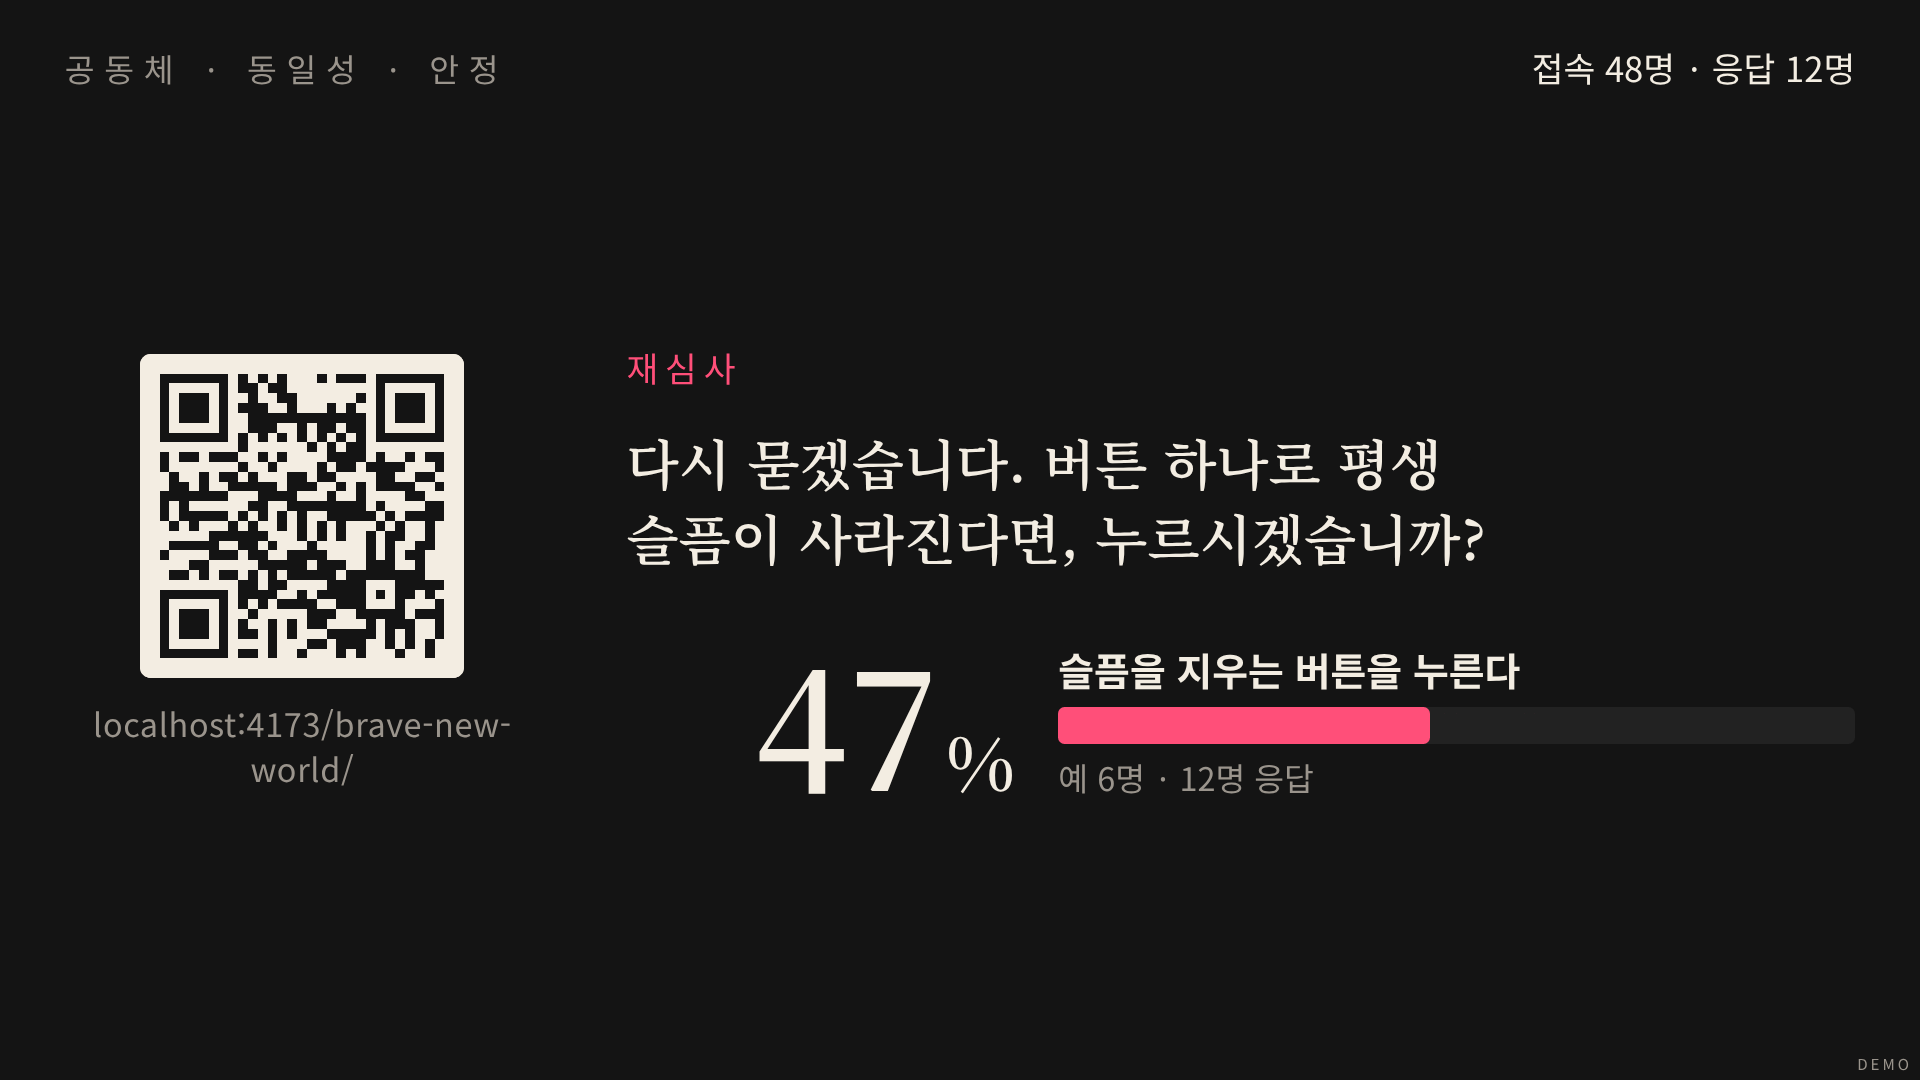
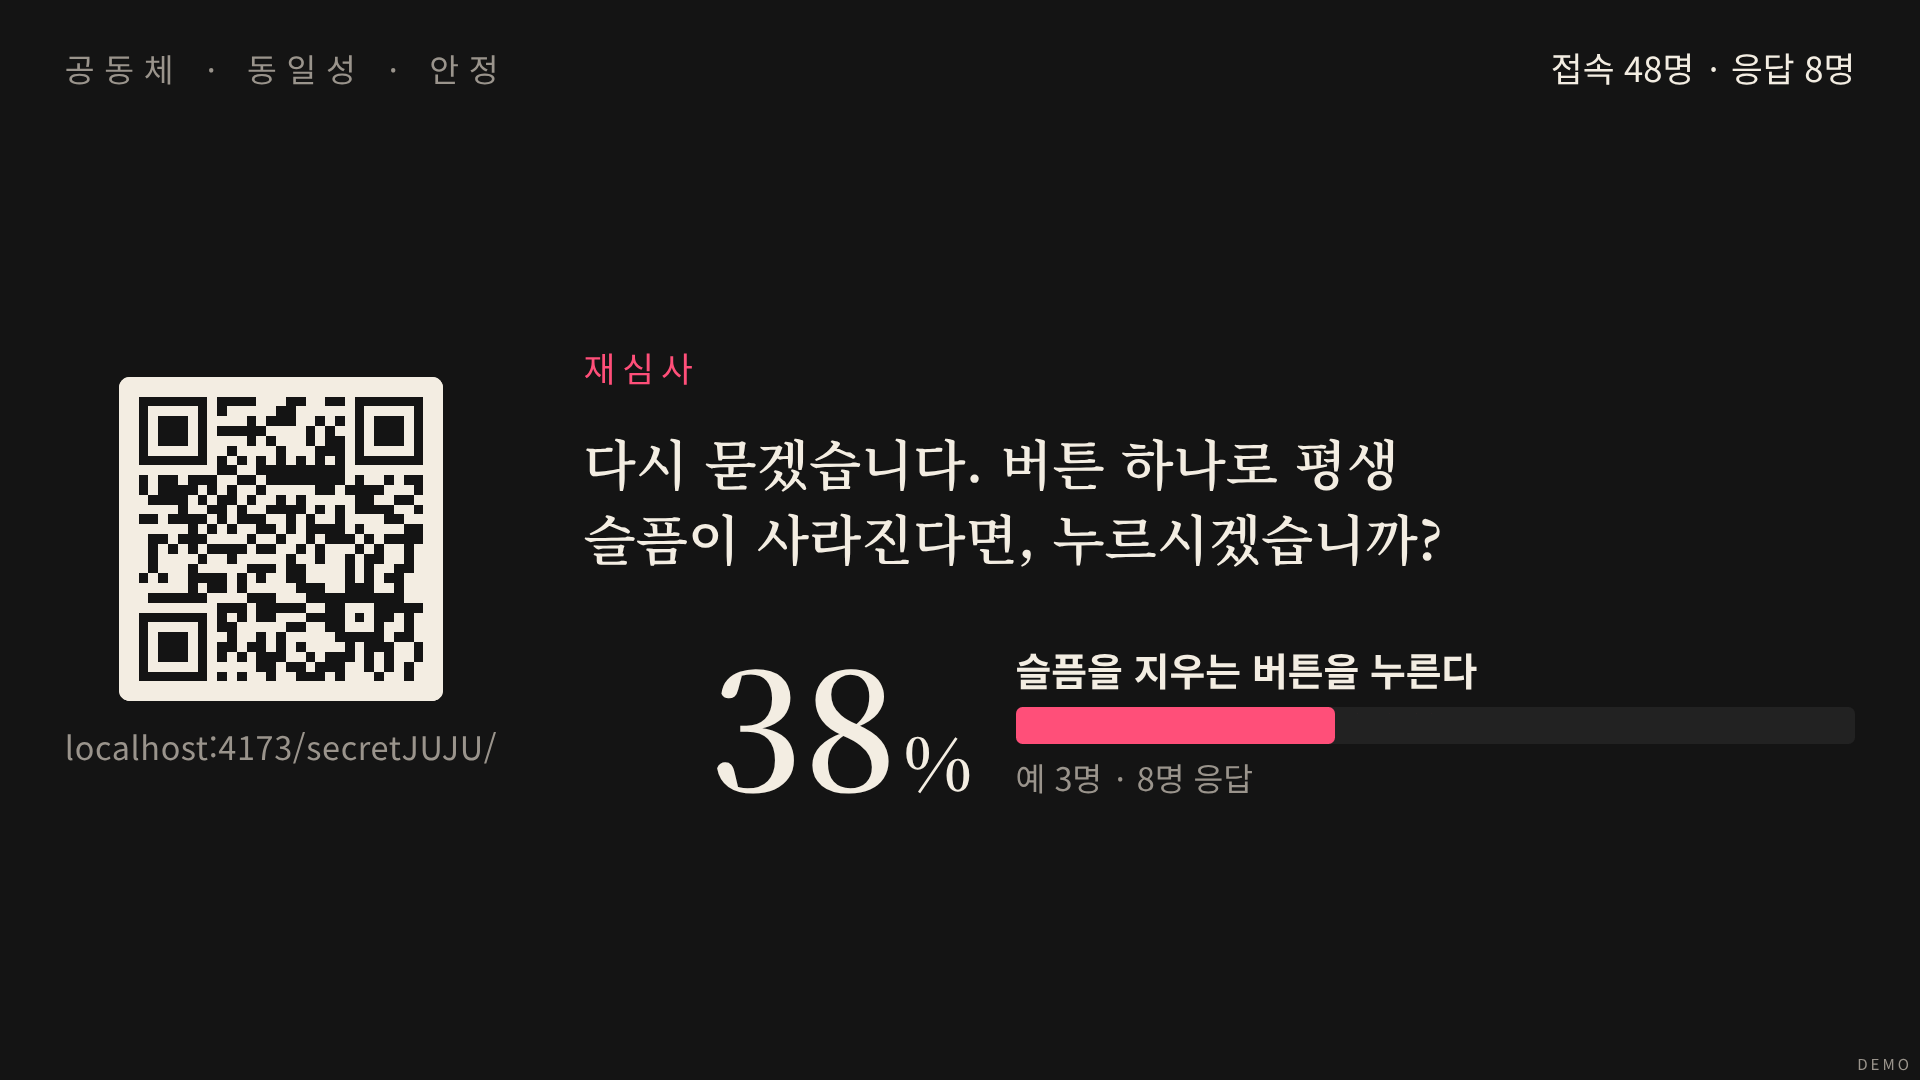
Use /secretJUJU/ as the default base path
Claude-Session: https://claude.ai/code/session_01CLDoCnqqRW8HJJm8WrfZjq

diff --git a/src/logic/logic.test.ts b/src/logic/logic.test.ts
@@ -176,8 +176,8 @@ describe('주소 처리', () => {
   });
 
   it('QR 주소는 쿼리를 뺀 청중 경로이고 ?qr= 로 덮어쓸 수 있다', () => {
-    const base = { origin: 'https://woobin0724.github.io', pathname: '/brave-new-world/' };
-    expect(audienceUrl({ ...base, search: '', hash: '#/screen?demo=1' })).toBe('https://woobin0724.github.io/brave-new-world/#/');
+    const base = { origin: 'https://woobin0724.github.io', pathname: '/secretJUJU/' };
+    expect(audienceUrl({ ...base, search: '', hash: '#/screen?demo=1' })).toBe('https://woobin0724.github.io/secretJUJU/#/');
     expect(audienceUrl({ ...base, search: '', hash: '#/screen?qr=https%3A%2F%2Fex.kr%2Fa' })).toBe('https://ex.kr/a');
   });
 });

diff --git a/playwright.config.ts b/playwright.config.ts
@@ -8,14 +8,14 @@ export default defineConfig({
   fullyParallel: true,
   reporter: [['list']],
   use: {
-    baseURL: `http://localhost:${PORT}/brave-new-world/`,
+    baseURL: `http://localhost:${PORT}/secretJUJU/`,
     trace: 'off',
     launchOptions: process.env.PW_CHROMIUM_PATH ? { executablePath: process.env.PW_CHROMIUM_PATH } : {},
   },
   webServer: {
     // Firebase 설정 없이 빌드한 결과물로 데모 모드를 검증한다.
     command: `npm run build && npx vite preview --port ${PORT} --strictPort`,
-    url: `http://localhost:${PORT}/brave-new-world/`,
+    url: `http://localhost:${PORT}/secretJUJU/`,
     reuseExistingServer: true,
     timeout: 120_000,
   },

diff --git a/e2e/screen.spec.ts b/e2e/screen.spec.ts
@@ -35,7 +35,7 @@ test('발표 화면: 키보드로 모든 단계를 넘긴다', async ({ page }) 
   await expect(page.getByText('휴대폰 카메라로 QR을 찍어 입국 심사를 받아 주세요')).toBeVisible();
   const qr = await page.locator('.qr.big').boundingBox();
   expect(qr!.width).toBeGreaterThanOrEqual(520);
-  await expect(page.locator('.url')).toHaveText('localhost:4173/brave-new-world/');
+  await expect(page.locator('.url')).toHaveText('localhost:4173/secretJUJU/');
   await expect(page.getByTestId('counts')).toContainText('응답 0명');
   await check(page, 'p01-waiting');
 

diff --git a/vite.config.ts b/vite.config.ts
@@ -7,7 +7,7 @@ export default defineConfig(({ mode }) => {
   // 없는 미디어 파일은 아예 요청하지 않도록(콘솔 404 방지) 빌드 시점의 파일 목록을 넘긴다.
   const media = existsSync('public/media') ? readdirSync('public/media') : [];
   return {
-    base: env.VITE_BASE || '/brave-new-world/',
+    base: env.VITE_BASE || '/secretJUJU/',
     plugins: [react()],
     define: { __MEDIA_FILES__: JSON.stringify(media) },
     build: { target: 'es2020' },

diff --git a/README.md b/README.md
@@ -29,8 +29,8 @@ npm run dev
 
 브라우저에서 아래 두 주소를 **두 탭으로** 엽니다. Firebase 설정이 없어도 됩니다.
 
-- `http://localhost:5173/brave-new-world/#/?demo=1` (청중 화면. 창을 휴대폰 크기로 줄이면 좋습니다)
-- `http://localhost:5173/brave-new-world/#/screen?demo=1` (발표 화면)
+- `http://localhost:5173/secretJUJU/#/?demo=1` (청중 화면. 창을 휴대폰 크기로 줄이면 좋습니다)
+- `http://localhost:5173/secretJUJU/#/screen?demo=1` (발표 화면)
 
 > 지시서의 `http://localhost:5173/#/?demo=1` 로 들어가도 Vite 가 위 주소를 안내합니다. 하위 경로 없이 쓰려면 `.env.local` 에 `VITE_BASE=/` 를 넣습니다.
 
@@ -76,11 +76,11 @@ npm run dev
 
 ## 3. GitHub Pages 배포
 
-1. GitHub 계정 `woobin0724` 에 `brave-new-world` 저장소를 만들고 이 코드를 `main` 브랜치로 올립니다. (저장소 이름이 다르면 워크플로가 그 이름을 하위 경로로 자동 사용합니다.)
+1. 코드는 GitHub 저장소 `woobin0724/secretJUJU` 의 `main` 브랜치에 있습니다. (워크플로는 저장소 이름을 하위 경로로 자동 사용합니다.)
 2. **Settings > Secrets and variables > Actions > New repository secret** 으로 `.env.local` 과 같은 이름·값 6개를 등록합니다: `VITE_FIREBASE_API_KEY`, `VITE_FIREBASE_AUTH_DOMAIN`, `VITE_FIREBASE_DATABASE_URL`, `VITE_FIREBASE_PROJECT_ID`, `VITE_FIREBASE_APP_ID`, `VITE_ADMIN_EMAIL`.
 3. **Settings > Pages > Build and deployment > Source** 를 **GitHub Actions** 로 바꿉니다.
 4. `main` 에 푸시하면 `.github/workflows/deploy.yml` 이 린트·테스트·빌드 후 자동 배포합니다.
-5. 주소: `https://woobin0724.github.io/brave-new-world/` (발표 화면은 끝에 `#/screen`, 진행자는 `#/admin`).
+5. 주소: `https://woobin0724.github.io/secretJUJU/` (발표 화면은 끝에 `#/screen`, 진행자는 `#/admin`).
 
 ## 4. 발표 당일 체크리스트
 

diff --git a/DECISIONS.md b/DECISIONS.md
@@ -54,4 +54,4 @@
 - Playwright 는 이 환경에 설치된 브라우저에 맞춰 1.63.0 으로 고정했다.
 
 ## 저장소
-- 작업은 `woobin0724/secretJUJU` 의 `claude/blissful-curie-auoixr` 브랜치에 올렸다. 배포 워크플로는 `main` 푸시에만 동작하고, 하위 경로는 저장소 이름을 따라간다(로컬 기본값은 `/brave-new-world/`).
+- 작업은 `woobin0724/secretJUJU` 의 `claude/blissful-curie-auoixr` 브랜치에 올렸다. 배포 워크플로는 `main` 푸시에만 동작하고, 하위 경로는 저장소 이름을 따라간다(로컬 기본값은 `/secretJUJU/`).
